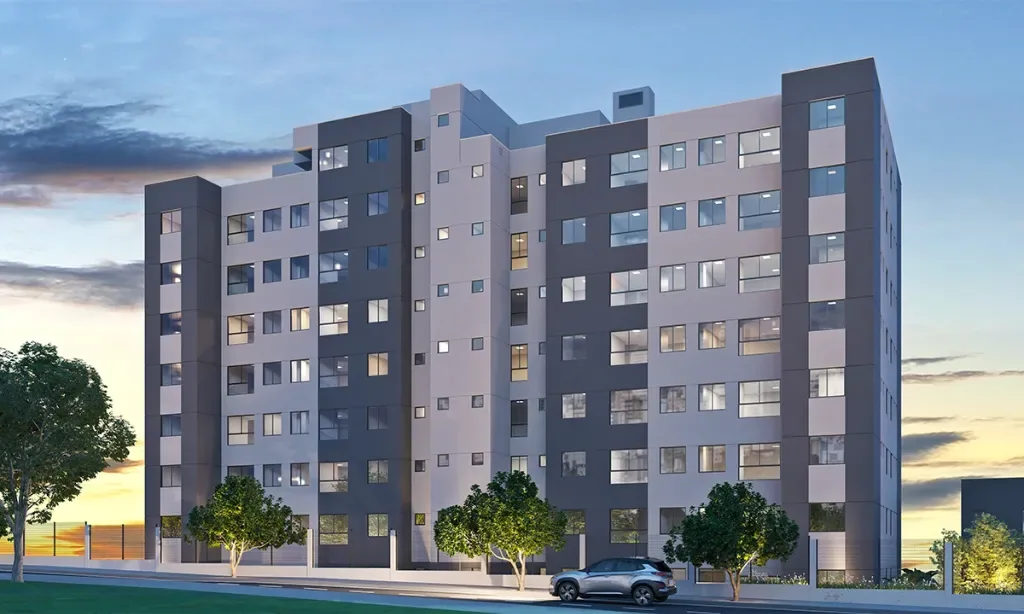
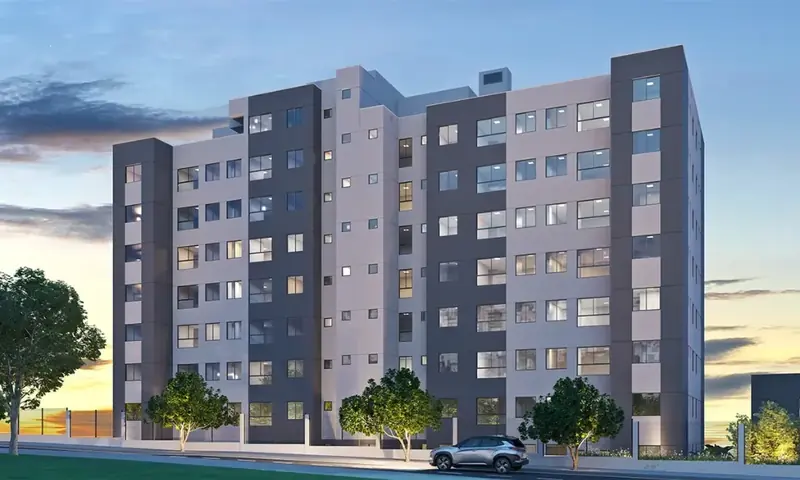
perf(web-seo): fix mobile Lighthouse bottlenecks across JS, LCP, CSS, fonts, and caching
- Lazy-load Firebase Web SDK (app, app-check, firestore) via dynamic imports in FirebaseService, LancamentosService, and BairrosService so SSR-hydrated pages avoid downloading/evaluating ~462 kB raw (~120 kB gzip) of unused JS, reducing main.js from 310 kB to 130 kB transfer (-58%).
- Remove eager withPreloading(PreloadAllModules) and eager App Check initializer from app.config.ts, and enable withIncrementalHydration() for @defer (hydrate on viewport) blocks.
- Defer below-the-fold NextJourneyComponent and FooterComponent on HomePageComponent with viewport hydration and height-matched placeholders.
- Remove priority preload from below-the-fold secondary launch cards in FeaturedLaunchesComponent so they no longer compete with the LCP image on mobile.
- Resize and recompress local cover WebP images (prime-view, upside-square, horizon) to match their 16:10 display dimensions (190 kB -> 79 kB total) and update intrinsic width/height metadata in lancamentos.data.ts.
- Enable inlineCritical CSS in angular.json production config to remove render-blocking styles.css from the critical path.
- Remove unused fonts.googleapis.com preconnect and pin Fraunces variable axes (SOFT=100, WONK=1) and Plus Jakarta Sans weights (400;500) in index.html.
- Add immutable: true to express.static cache headers in server.ts for long-lived static asset caching.

diff --git a/apps/web-seo/src/app/core/firebase.service.ts b/apps/web-seo/src/app/core/firebase.service.ts
@@ -6,22 +6,9 @@ import {
   inject,
   makeStateKey,
 } from '@angular/core';
-import {
-  type FirebaseApp,
-  getApp,
-  getApps,
-  initializeApp,
-} from 'firebase/app';
-import {
-  type AppCheck,
-  ReCaptchaEnterpriseProvider,
-  initializeAppCheck,
-} from 'firebase/app-check';
-import {
-  type Firestore,
-  connectFirestoreEmulator,
-  getFirestore,
-} from 'firebase/firestore';
+import type { FirebaseApp } from 'firebase/app';
+import type { AppCheck } from 'firebase/app-check';
+import type { Firestore } from 'firebase/firestore';
 import {
   FIREBASE_CONFIG,
   type FirebaseEnvironmentConfig,
@@ -94,7 +81,7 @@ export class FirebaseService {
     this.isConfigured = isFirebaseConfigured(this.config);
   }
 
-  getFirebaseApp(): FirebaseApp | null {
+  async getFirebaseApp(): Promise<FirebaseApp | null> {
     if (!this.isConfigured) {
       return null;
     }
@@ -103,6 +90,7 @@ export class FirebaseService {
       return this.appInstance;
     }
 
+    const { getApp, getApps, initializeApp } = await import('firebase/app');
     const existingApps = getApps();
     this.appInstance =
       existingApps.length > 0
@@ -120,7 +108,7 @@ export class FirebaseService {
     return this.appInstance;
   }
 
-  getFirestore(): Firestore | null {
+  async getFirestore(): Promise<Firestore | null> {
     if (!this.isConfigured) {
       return null;
     }
@@ -129,10 +117,18 @@ export class FirebaseService {
       return this.firestoreInstance;
     }
 
-    const app = this.getFirebaseApp();
+    const app = await this.getFirebaseApp();
     if (!app) {
       return null;
     }
+
+    if (isPlatformBrowser(this.platformId)) {
+      await this.initAppCheck();
+    }
+
+    const { connectFirestoreEmulator, getFirestore } = await import(
+      'firebase/firestore'
+    );
 
     const databaseId = this.config.firestoreDatabaseId;
     const db =
@@ -157,7 +153,7 @@ export class FirebaseService {
    * Initializes Firebase App Check with reCAPTCHA Enterprise strictly in the browser.
    * Safe no-op on SSR server and when site key / Firebase config is absent.
    */
-  initAppCheck(): AppCheck | null {
+  async initAppCheck(): Promise<AppCheck | null> {
     if (!isPlatformBrowser(this.platformId)) {
       return null;
     }
@@ -168,11 +164,6 @@ export class FirebaseService {
 
     const siteKey = this.config.recaptchaEnterpriseSiteKey?.trim();
     if (!siteKey) {
-      return null;
-    }
-
-    const app = this.getFirebaseApp();
-    if (!app) {
       return null;
     }
 
@@ -190,6 +181,15 @@ export class FirebaseService {
         return null;
       }
     }
+
+    const app = await this.getFirebaseApp();
+    if (!app) {
+      return null;
+    }
+
+    const { ReCaptchaEnterpriseProvider, initializeAppCheck } = await import(
+      'firebase/app-check'
+    );
 
     this.appCheckInstance = initializeAppCheck(app, {
       provider: new ReCaptchaEnterpriseProvider(siteKey),

diff --git a/apps/web-seo/src/app/core/lancamentos.data.ts b/apps/web-seo/src/app/core/lancamentos.data.ts
@@ -126,8 +126,8 @@ export const LANCAMENTOS: Lancamento[] = [
       'Condomínio residencial no Estoril implantado em terreno de 5.855,90 m² com 2 torres e 2 elevadores por torre. Reúne 7 opções de plantas entre Tipo, Garden, PCD e Cobertura Linear de 49,38 a 103,54 m², com áreas comuns entregues mobiliadas e decoradas a 2 minutos a pé da Av. Barão Homem de Melo.',
     corCapa: 'moss',
     imagem: '/images/lancamentos/prime-view/cover.webp',
-    imagemWidth: 1024,
-    imagemHeight: 614,
+    imagemWidth: 800,
+    imagemHeight: 480,
     imagemAlt:
       'Fachada contemporânea do residencial Prime View no Estoril, Belo Horizonte',
     diferenciais: [
@@ -502,8 +502,8 @@ export const LANCAMENTOS: Lancamento[] = [
       'Torre única do 4º ao 21º pavimento em terreno de 1.453,35 m² no coração de Santa Efigênia, assinada por Torres Miranda (Arquitetura), Piacesi (Áreas Comuns) e Forma Garden (Paisagismo). Conta com certificação internacional EDGE, plantas de 30,10 a 122,25 m² e mobilidade a pé para a Praça Floriano Peixoto, Hospital da Unimed e Shopping Boulevard.',
     corCapa: 'ipe',
     imagem: '/images/lancamentos/upside-square/cover.webp',
-    imagemWidth: 641,
-    imagemHeight: 1024,
+    imagemWidth: 640,
+    imagemHeight: 400,
     imagemAlt:
       'Fachada contemporânea do residencial Upside Square no bairro Santa Efigênia, Belo Horizonte',
     diferenciais: [
@@ -969,8 +969,8 @@ export const LANCAMENTOS: Lancamento[] = [
       'Torre única em terreno de 6.673 m² com 4 elevadores e área de preservação permanente no entorno no bairro Serrano. Oferece 6 plantas entre apartamentos Tipo com varanda e Garden de 52,36 a 83,34 m², lazer completo e comodidades integradas a poucos minutos da Av. Abílio Machado.',
     corCapa: 'guava',
     imagem: '/images/lancamentos/horizon/cover.webp',
-    imagemWidth: 641,
-    imagemHeight: 576,
+    imagemWidth: 640,
+    imagemHeight: 400,
     imagemAlt:
       'Fachada da torre única do residencial Horizon cercado por área verde no bairro Serrano, Belo Horizonte',
     diferenciais: [

diff --git a/apps/web-seo/src/app/core/bairros.service.ts b/apps/web-seo/src/app/core/bairros.service.ts
@@ -9,15 +9,6 @@ import {
   signal,
 } from '@angular/core';
 import {
-  collection,
-  doc,
-  getDoc,
-  getDocs,
-  orderBy,
-  query,
-  where,
-} from 'firebase/firestore';
-import {
   BAIRROS_BH,
   type BairroFaqItem,
   type BairroGuide,
@@ -249,12 +240,15 @@ export class BairrosService {
   }
 
   private async fetchBairrosFromFirestore(): Promise<BairroGuide[]> {
-    const db = this.firebase.getFirestore();
+    const db = await this.firebase.getFirestore();
     if (!db) {
       return this.commitListResult(this.initialData);
     }
 
     try {
+      const { collection, getDocs, orderBy, query, where } = await import(
+        'firebase/firestore'
+      );
       const colRef = collection(db, BAIRROS_COLLECTION);
       let items: BairroGuide[];
 
@@ -314,7 +308,7 @@ export class BairrosService {
   private async fetchBairroBySlugFromFirestore(
     slug: string
   ): Promise<BairroGuide | undefined> {
-    const db = this.firebase.getFirestore();
+    const db = await this.firebase.getFirestore();
     if (!db) {
       const fallback =
         this.initialData.find((item) => item.slug === slug) ?? null;
@@ -322,6 +316,7 @@ export class BairrosService {
     }
 
     try {
+      const { doc, getDoc } = await import('firebase/firestore');
       const docRef = doc(db, BAIRROS_COLLECTION, slug);
       const snap = await withTimeout(
         getDoc(docRef),

diff --git a/apps/web-seo/src/app/core/lancamentos.service.ts b/apps/web-seo/src/app/core/lancamentos.service.ts
@@ -10,15 +10,6 @@ import {
   signal,
 } from '@angular/core';
 import {
-  collection,
-  doc,
-  getDoc,
-  getDocs,
-  orderBy,
-  query,
-  where,
-} from 'firebase/firestore';
-import {
   FIRESTORE_READ_TIMEOUT_MS,
   pickNonEmptyArray,
   pickNonEmptyString,
@@ -448,13 +439,16 @@ export class LancamentosService {
       }
     }
 
-    const db = this.firebase.getFirestore();
+    const db = await this.firebase.getFirestore();
     if (!db) {
       return this.commitListResult(this.initialData);
     }
 
     this.isLoadingList.set(true);
     try {
+      const { collection, getDocs, orderBy, query, where } = await import(
+        'firebase/firestore'
+      );
       const colRef = collection(db, LAUNCHES_COLLECTION);
       let items: Lancamento[];
 
@@ -532,7 +526,7 @@ export class LancamentosService {
       }
     }
 
-    const db = this.firebase.getFirestore();
+    const db = await this.firebase.getFirestore();
     if (!db) {
       const fallback =
         this.initialData.find((item) => item.slug === slug) ?? null;
@@ -541,6 +535,7 @@ export class LancamentosService {
 
     this.isLoadingDetail.set(true);
     try {
+      const { doc, getDoc } = await import('firebase/firestore');
       const docRef = doc(db, LAUNCHES_COLLECTION, slug);
       const snap = await withTimeout(
         getDoc(docRef),

diff --git a/apps/web-seo/src/app/pages/home.page.ts b/apps/web-seo/src/app/pages/home.page.ts
@@ -73,14 +73,28 @@ const HOME_NEXT_DESTINATIONS: readonly JourneyDestination[] = [
             class="min-h-[420px] bg-ink py-12 sm:py-16 lg:py-24"
           ></section>
         }
-        <app-next-journey
-          heading="Por onde seguir agora"
-          subtitle="Escolha um dos caminhos abaixo para continuar sua pesquisa em Belo Horizonte."
-          variant="editorial"
-          [destinations]="nextDestinations"
-        />
+        @defer (on viewport; hydrate on viewport) {
+          <app-next-journey
+            heading="Por onde seguir agora"
+            subtitle="Escolha um dos caminhos abaixo para continuar sua pesquisa em Belo Horizonte."
+            variant="editorial"
+            [destinations]="nextDestinations"
+          />
+        } @placeholder {
+          <section
+            aria-hidden="true"
+            class="min-h-[360px] border-t border-border-subtle bg-canvas py-12 sm:py-16"
+          ></section>
+        }
       </main>
-      <app-footer />
+      @defer (on viewport; hydrate on viewport) {
+        <app-footer />
+      } @placeholder {
+        <div
+          aria-hidden="true"
+          class="min-h-[320px] border-t border-border-subtle bg-surface"
+        ></div>
+      }
     </div>
   `,
 })

diff --git a/apps/web-seo/src/app/app.config.ts b/apps/web-seo/src/app/app.config.ts
@@ -1,25 +1,21 @@
 import {
   ApplicationConfig,
-  inject,
-  provideAppInitializer,
   provideBrowserGlobalErrorListeners,
   provideZonelessChangeDetection,
 } from '@angular/core';
 import {
-  PreloadAllModules,
   provideRouter,
   withComponentInputBinding,
   withInMemoryScrolling,
-  withPreloading,
   withViewTransitions,
 } from '@angular/router';
 import {
   provideClientHydration,
   withEventReplay,
+  withIncrementalHydration,
 } from '@angular/platform-browser';
 import { provideHttpClient, withFetch } from '@angular/common/http';
 import { routes } from './app.routes';
-import { FirebaseService } from './core';
 
 export const appConfig: ApplicationConfig = {
   providers: [
@@ -49,13 +45,8 @@ export const appConfig: ApplicationConfig = {
         anchorScrolling: 'enabled',
         scrollPositionRestoration: 'enabled',
       }),
-      withPreloading(PreloadAllModules),
     ),
-    provideClientHydration(withEventReplay()),
+    provideClientHydration(withEventReplay(), withIncrementalHydration()),
     provideHttpClient(withFetch()),
-    provideAppInitializer(() => {
-      // Browser-guarded inside FirebaseService (no-op on SSR server).
-      inject(FirebaseService).initAppCheck();
-    }),
   ],
 };

diff --git a/apps/web-seo/src/index.html b/apps/web-seo/src/index.html
@@ -26,9 +26,8 @@
   <link rel="shortcut icon" href="/favicon.ico">
   <link rel="apple-touch-icon" href="/apple-touch-icon.png">
   <link rel="preconnect" href="https://firebasestorage.googleapis.com" crossorigin>
-  <link rel="preconnect" href="https://fonts.googleapis.com">
   <link rel="preconnect" href="https://fonts.gstatic.com" crossorigin>
-  <link href="https://fonts.googleapis.com/css2?family=Fraunces:opsz,SOFT,WONK,wght@9..144,0..100,0..1,400..500&family=Plus+Jakarta+Sans:wght@400..500&display=swap" rel="stylesheet">
+  <link href="https://fonts.googleapis.com/css2?family=Fraunces:opsz,SOFT,WONK,wght@9..144,100,1,400..500&family=Plus+Jakarta+Sans:wght@400;500&display=swap" rel="stylesheet">
 </head>
 <body class="min-h-full flex flex-col bg-canvas text-ink">
   <app-root></app-root>

diff --git a/apps/web-seo/src/app/components/launches/featured-launches.component.ts b/apps/web-seo/src/app/components/launches/featured-launches.component.ts
@@ -282,7 +282,6 @@ const MAX_HOME_FEATURED_LAUNCHES = 6;
                 <app-launch-card
                   [launch]="launch"
                   headingLevel="h3"
-                  [priority]="$index < 2"
                   class="w-[82vw] max-w-[332px] shrink-0 snap-start md:w-auto md:max-w-none"
                 />
               }

diff --git a/apps/web-seo/src/server.ts b/apps/web-seo/src/server.ts
@@ -68,6 +68,7 @@ app.post(
 app.use(
   express.static(browserDistFolder, {
     maxAge: '1y',
+    immutable: true,
     index: false,
     redirect: false,
   }),
